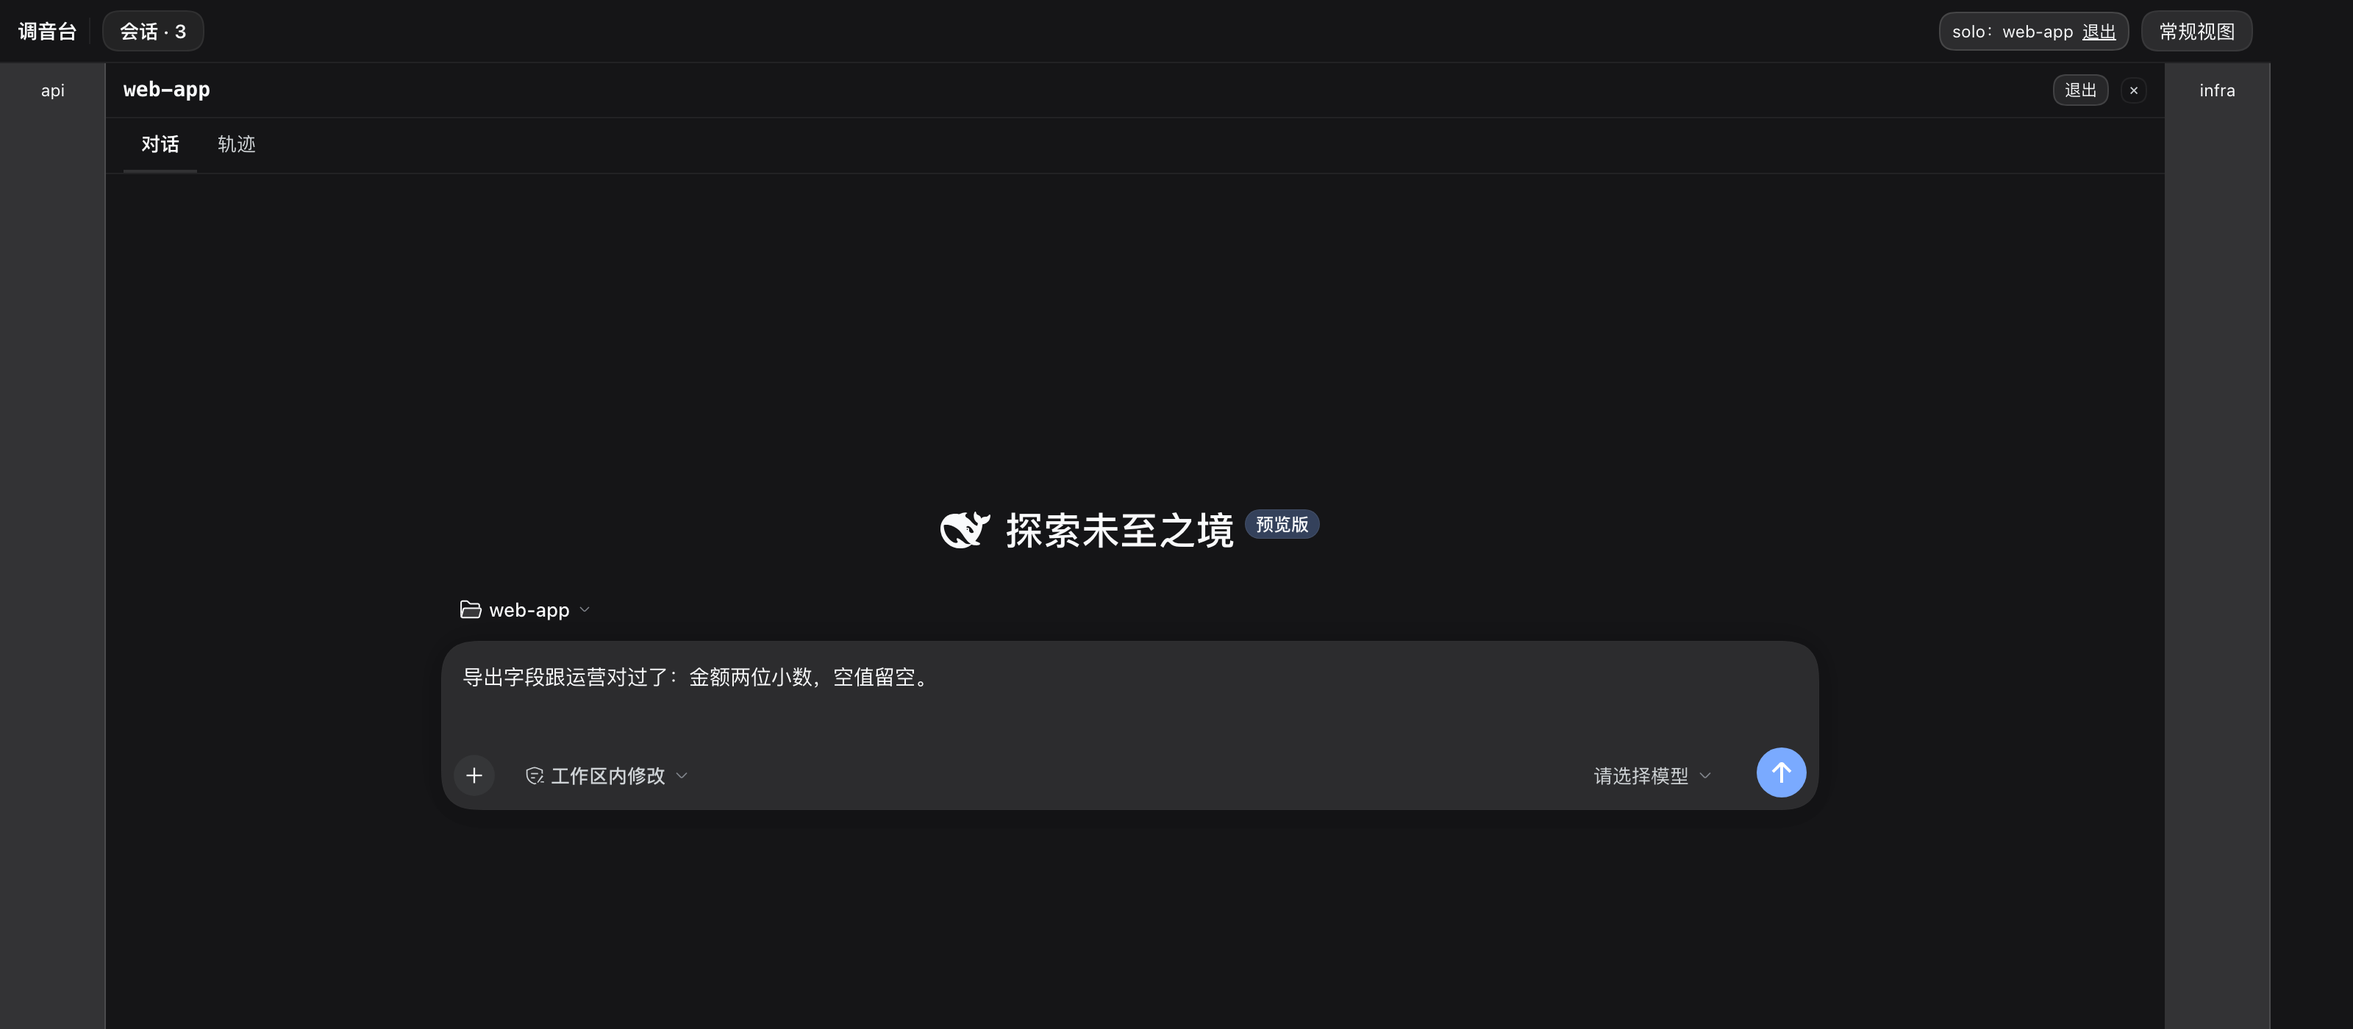
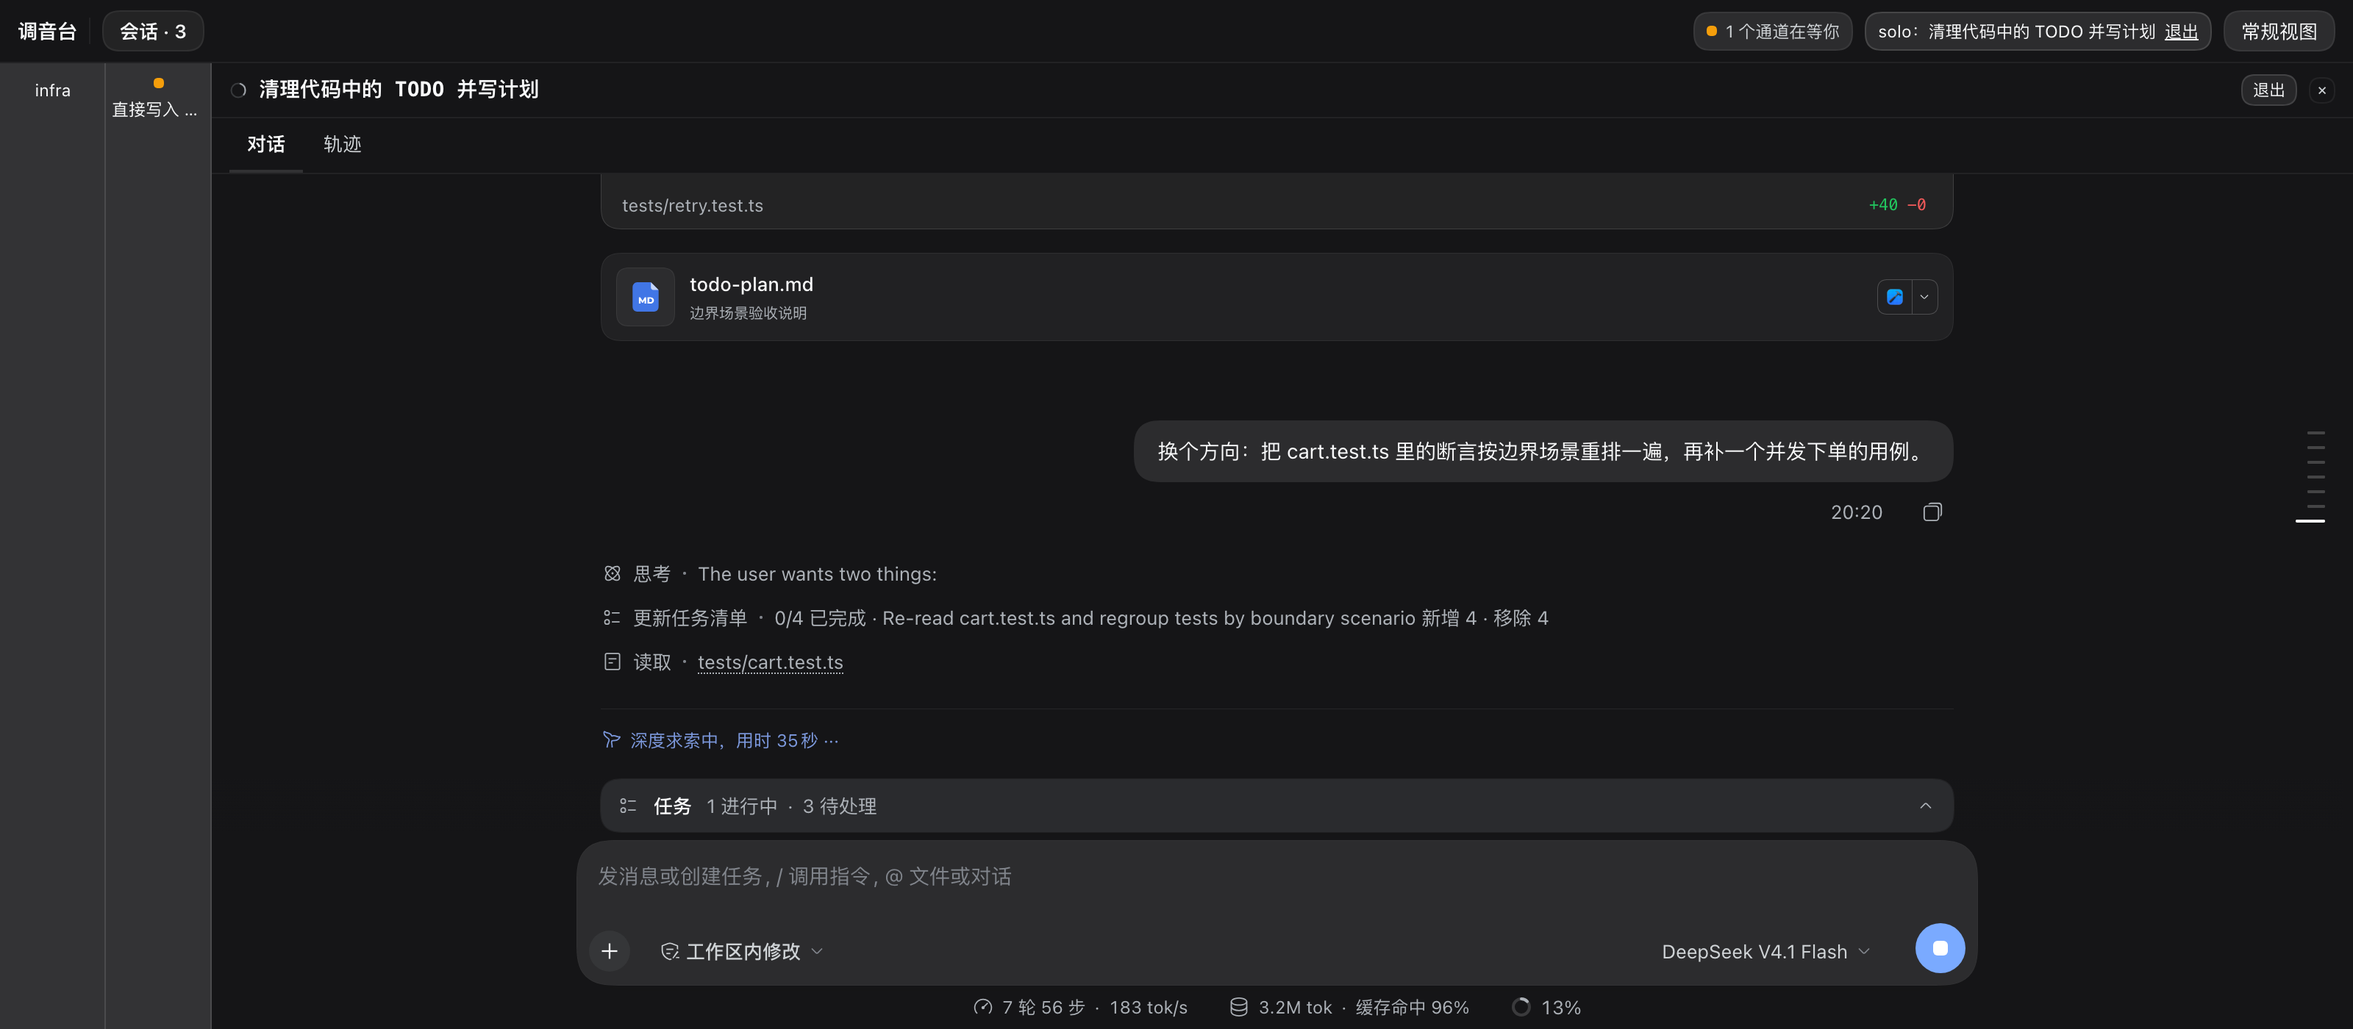
docs(readme): 主图换成「空 / 执行中 / 等待审批」三态同框（真实模型回合）
用户反馈上一版三栏全是空对话、视觉冲击力不够。本版在沙箱里跑**真实模型回合**
（沙箱 HOME 只多带一份 `~/.dsh/.credentials.yaml` 就有了登录态，DeepSeek V4.1 Flash），
再用 CDP 截取同一屏里的三种状态：

- `mixer.png`：① `infra` 空对话（composer 里有未发送草稿）② 等待审批 —— 真实
  `[data-approval-key]` 卡（尝试把清单写到工作区外 `/srv/demo-artifacts/manifest.csv`，
  被 `workspace-write` 拒绝后提权，`拒绝` / `允许一次` 都在图上）③ 执行中 ——
  `已编辑 N 个文件` 改动卡 + `todo-plan.md` 产物卡 + `深度求索中` + 头部转圈；
  顶栏 `1 个通道在等你` 同步亮起。
- `mixer-solo.png`：宽格是**正在跑**的回合（新需求 + 更新任务清单 + `深度求索中，用时 35 秒`
  + `任务 1 进行中`），两条 64px 窄条里一个是空、一个带琥珀等待点，顶栏同时挂等待汇总与 solo chip。
- `waiting.png`：改为从新主图第 2 格 **1:1 裁出**的审批卡近景（旧版是低分辨率截图放大，弃用）。
- `README.md`：主图下补一句「三种状态并存」，主图 alt 同步；引用路径不变。
- `PROVENANCE.md`：补齐登录态来源、三个真实 prompt 原文、审批触发链路、裁切参数与
  本轮踩的坑（Emulation 覆盖跟 CDP 会话走、嵌套 sandbox-exec 不可用、/tmp→/private/tmp realpath）。

隐私：凭据只复制进 `/tmp` 一次性沙箱（不打印、不入库、用完连沙箱一起删）；演示工作区与会话
全部虚构；左侧栏整条裁掉；DOM 全文审计禁词 0 命中、无 `/Users/...`、无账号名。

判据：`npm run check` = 96/96 用例 + 冷启动 `PASS`。

diff --git a/docs/assets/PROVENANCE.md b/docs/assets/PROVENANCE.md
@@ -1,7 +1,8 @@
 # 截图出处（`docs/assets/*.png`）
 
-这两张图不是设计稿、不是手工 HTML，也不是原型分支的产物：它们是在**真实 DSH 宿主**（`dsh web`）上、
-用**无头 Chrome + CDP** 驱动本仓库根包的插件截下来的。下面记录能让人重跑一遍的全部事实。
+这两张图不是设计稿、不是手工 HTML，也不是原型分支的产物：它们是在**真实 DSH 宿主**（`dsh web`）里、
+用**无头 Chrome + CDP** 驱动本仓库根包的插件截下来的，而且图里的对话是**真实模型回合**跑出来的
+（不是占位文本）。下面记录能让人重跑一遍的全部事实。
 
 ## 宿主与插件版本
 
@@ -15,82 +16,116 @@
 | 启动命令 | `DSH_HOME=<沙箱> node --import tsx/esm apps/cli/src/bin.ts web --no-open --port 4599` |
 | 浏览器 | Google Chrome 155.0.8059.85，`--headless=new` |
 | 主题 | 暗色（`Emulation.setEmulatedMedia` 的 `prefers-color-scheme: dark`） |
+| 模型 | `DeepSeek V4.1 Flash`（profile 的 `agent-default-model` 那条 patch；回合真的发出去了） |
+
+## 沙箱怎么拿到登录态
+
+- 沙箱 `DSH_HOME` 从 `~/.dsh` **只**复制两样：`profiles`（纯配置）与 `.credentials.yaml`（登录凭据）。
+- 凭据文件只落在 `/tmp` 的一次性沙箱里：**没有**被读取打印、**没有**进入仓库、也没写成任何文件；
+  整个沙箱在收尾时删除。宿主的 `~/.dsh` 本体、3080 上正在用的 GUI、live token 全程没碰。
+- 有了它，沙箱宿主是登录态：`/mixer` 命令、通道、composer 都正常，模型回合也能真的跑，
+  首屏不再要求登录（图里也没有任何登录弹窗）。
 
 ## 窗口与像素
 
 | 项 | 值 |
 | --- | --- |
-| 视口（Emulation 覆盖） | **1656 × 900** CSS px |
+| 视口（`Emulation.setDeviceMetricsOverride`） | **1656 × 700** CSS px |
 | `deviceScaleFactor` | **2** |
 | 左侧栏 | 调音台会自动把它折成 56px 轨道（spec §7.1），**截图时整条裁掉**（`clip.x = 56`） |
 | 出图裁剪区 | `x=56, y=0, width=1600, height=700`（CSS） |
 | 两张 PNG 的像素尺寸 | **3200 × 1400**（= 1600×700 CSS × DPR 2） |
-| 文件体积 | `mixer.png` ≈ 163 KB、`mixer-solo.png` ≈ 93 KB（均远小于 800 KB） |
+| 文件体积 | `mixer.png` ≈ 418 KB（428,411 B）、`mixer-solo.png` ≈ 208 KB（213,360 B）（均小于 800 KB） |
+
+> 视口高度选 700 而不是更高的窗口，是因为**审批卡很高**（约 260px）：在 900 高的窗口里它会顶到
+> 可视区之外，700 高时刚好整张卡（含 `拒绝` / `允许一次`）都落在画面里。
 
 ## 每张图里是什么
 
-### `mixer.png` —— README 主图
+### `mixer.png` —— README 主图（空 / 在跑 / 在等你，三格同框）
 
-调音台视图叠在真实宿主上，**3 个通道并排**（每格 511 CSS px）：
+从左到右三个通道，三格状态各不相同，一眼可辨：
 
-- 顶栏完整保留：`调音台` 标签 │ `会话 · 3` chip │ 右侧 `常规视图`；
-- 每格头部：会话标题（`api` / `web-app` / `infra`）、`solo` 按钮、`×`（移出），下面是 `对话` / `轨迹` 视图标签；
-- 每格各自一份宿主官方 composer（空会话的 hero 态），**输入框里各有一段不同的草稿**：
-  - `回调签名比较改成常量时间，再补一条重复通知的用例。`
-  - `导出字段跟运营对过了：金额两位小数，空值留空。`
-  - `镜像层顺序调一下，依赖安装放到源码复制之前。`
-- 最右那格是当前焦点所在（输入卡片带宿主自己的 2px 焦点描边，spec §5.3）；
-- 通道之间是 5px 抓取带 + 1px 分界线。
+1. **`infra`：空对话**（hero + 输入框）。composer 里有一段未发送的草稿：
+   `镜像层顺序调一下，依赖安装放到源码复制之前。` —— 这一格是「真实会话」的锚点。
+2. **`直接写入 manifest.csv 表头`：等待审批**（`data-mixer-state="waiting"`，头部左侧 2px 琥珀竖条）。
+   对话里有模型的思考与一次被沙箱拒绝的写入，下面就是真实的 `[data-approval-key]` 卡片：
+   `等待审批` + 越界理由（把清单写到工作区外的 `/srv/demo-artifacts/manifest.csv`）+ `拒绝` / `允许一次`。
+3. **`清理代码中的 TODO 并写计划`：进行中**（头部转圈，`data-mixer-state="running"`）。
+   有真实对话记录、`已编辑 N 个文件` 的改动卡（`+89 -0` / `+130 -0` …）、`todo-plan.md` 产物卡、
+   时间轴上的 `思考` / `读取` / `编辑` 步骤，以及 `深度求索中，用时 … ` 的实时状态行。
 
-### `mixer-solo.png` —— solo 态
+顶栏完整保留：`调音台` │ `会话 · 3` │ **`1 个通道在等你`** │ `常规视图`。
 
-同一屏，点了 `web-app` 这格的 `solo` 之后：
+### `mixer-solo.png` —— solo 态（宽格里是活的回合）
 
-- 被 solo 的通道占满剩余宽度，头部变成 `web-app` + `退出`（+ `×`）；
-- 其余两个通道压成 **64px 窄条**（`api` / `infra`）：凹陷表面 + 右缘 1px 分界线 + 主色标题；
-- 顶栏多出 `solo：web-app 退出` chip；
-- `web-app` 那格的草稿仍是 `导出字段跟运营对过了：金额两位小数，空值留空。`，`会话 · 3` 计数不变
-  —— solo 只是视图状态，通道照旧在（spec §5.7）。
+对第 3 格点 `solo` 之后：
+
+- 被 solo 的通道占满剩余宽度，头部变成 `清理代码中的 TODO 并写计划` + `退出`（+ `×`）：
+  里面正是它**正在跑**的回合 —— 刚发出的中文需求、`更新任务清单`、`读取 tests/cart.test.ts`、
+  `深度求索中，用时 35 秒`、`任务 1 进行中 · 3 待处理`；
+- 其余两个通道压成 **64px 窄条**：`infra`（空）与 `直接写入…`（那条**正在等你**的通道，
+  窄条顶部有琥珀状态点）—— 这就是「solo 只是视觉聚焦，其余通道照常亮灯」（spec §5.7）；
+- 顶栏同时挂着 `1 个通道在等你` 与 `solo：… 退出` 两个 chip。
+
+### `waiting.png` —— 等待审批卡的近景（从 `mixer.png` 第 2 格裁出）
+
+同一张主图的裁切，不引入任何新内容：只取那一格的 `[data-approval-key]` 卡片（`等待审批` +
+越界理由 + `拒绝` / `允许一次`）。裁切范围 = `mixer.png`（3200×1400）的
+`x=1126, y=878, w=944, h=524`，原生 1:1 像素、**没有放大**（`sips` 直接裁）。
 
 ## 演示数据：全部虚构
 
 **所有工作区与会话均为 `/tmp` 下虚构演示数据，无真实用户内容。**
 
-- 沙箱 `DSH_HOME` 只从 `~/.dsh` 复制的 `profiles`（纯配置），**没有**复制
-  `sessions` / `storages` / `logs` / `attachments` / 凭据，因此宿主从一个空库起步；
 - 虚构工作区：`/private/tmp/mixer-demo/{web-app,api,infra}`（macOS 下 `/tmp` 的真身是 `/private/tmp`），
-  里面只有两三个随手写的示例文件；
-- 虚构会话：3 个空会话，标题就取工作区名（`api` / `web-app` / `infra`）；
-- 输入框草稿是自拟的中文业务文案（见上）；
+  里面只有几个随手写的示例文件（`src/cart.ts` / `src/checkout.ts` / `tests/cart.test.ts` …）与 TODO 注释；
+- 会话：三个空会话，标题由**真实回合**自动命名（`清理代码中的 TODO 并写计划` /
+  `直接写入 manifest.csv 表头` / 工作区名 `infra`）；
+- 草稿与 prompt 都是自拟中文业务文案，见下节原文；
 - 截图里**不出现**任何真实工作区名（`d` / `code` / `tcel-main-project` / `fs-sub-flow` / `temp` /
   `turbo-json-viewer` / `learn-personal-agent` / `fs-new-booking` / `wx-claw-bot` / `video` /
   `deepseek-harness` / `mvp-hotel` / `code-bot` / `user` / `fs-main-flow` 等），**不出现** `/Users/...` 路径，
-  也不出现登录弹窗或左侧栏。
+  也不出现登录弹窗或左侧栏。工具行里出现的路径只有演示树本身（`/private/tmp/mixer-demo/...`）
+  与虚构的发布目录（`/srv/demo-artifacts/...`）。
+
+## 真实回合是怎么造出来的
+
+三个通道的输入（原文）：
+
+- **进行中那格**（`web-app` 工作区）：
+  `把 src 和 tests 下的每个文件从头到尾读一遍，列出里面的 TODO，然后逐个改掉：每处理完一个文件再读下一个，最后写一份 docs/todo-plan.md 记录你改了哪些地方、为什么。`
+  之后又追加过几轮（补测试、补 JSDoc、重排断言），截图抓的是其中一轮还在跑的时刻。
+- **等待审批那格**（`api` 工作区）：
+  `直接用写文件的工具把表头写成一行 name,size 保存到 /srv/demo-artifacts/manifest.csv（发布目录在工作区外），不要先运行任何命令。`
+  → 写文件被 `workspace-write` 策略拒绝 → 宿主弹提权请求 → 那张 `[data-approval-key]` 卡。
+  截图时**故意不点** `允许一次`，所以越界写入从未发生，工作区外没有任何文件被创建。
+- **空对话那格**（`infra` 工作区）：只打草稿，不发送。
+
+⚠ 一处诚实说明：这台机器的宿主跑在本 agent 自己的文件沙箱里，**嵌套的 `sandbox-exec` 起不来**，
+所以 `bash` 工具在这个沙箱宿主里报 `sandbox mode "workspace-write" is requested but no sandbox backend
+is usable on this host`，并因此提权。为了不让画面变成"每个 bash 调用都在要权限"，进行中那格第一张
+审批卡是在 CDP 里点了 `拒绝` 后让它改用文件读写工具继续跑的 —— 图里那条灰色 `Error: [sandbox: …]`
+就是这件事的痕迹。审批卡本身（第 2 格）仍然是真实触发的，理由也来自模型自己写的那段话。
 
 ## 复现步骤（要点）
 
-1. **沙箱 HOME**（只带配置）：
+1. **沙箱 HOME**（配置 + 凭据，仅此两样）：
 
    ```bash
    export SH=/tmp/dsh-mixer-shot-home
    rm -rf "$SH" && mkdir -p "$SH"
    cp -R ~/.dsh/profiles "$SH/profiles"
-   # profile 里只留 base + web-app + dsh-mixer；dsh-mixer 指向工作区（绝对软链）
+   cp ~/.dsh/.credentials.yaml "$SH/.credentials.yaml" && chmod 600 "$SH/.credentials.yaml"
    ln -sfn /Users/user/Documents/code/d/dsh-mixer "$SH/profiles/web/node_modules/dsh-mixer"
    ```
 
-   顺手把这台机器上无关的 bundle（`better-miniprogram-sim`、agent-team profile）从
-   `profiles/web/package.json` 的 `dependencies` / `dsh.profile.bundles` 里去掉，冷启动更快也更干净。
+   profile 里只留 `@deepseek-ai/dsh-base` + `@deepseek-ai/dsh-web-app` + `dsh-mixer`；
+   `cordis.patch.yml` 的 `workspaceRoot` 改成 `/tmp/mixer-demo`。
 
-2. **虚构工作区 + 把沙箱的 `cordis.patch.yml` 的 `workspaceRoot` 改到 `/tmp/mixer-demo`**。
+2. **虚构工作区**：`/tmp/mixer-demo/{web-app,api,infra}`，塞几个带 `TODO` 注释的小文件。
 
-3. **起 server**（后台）：
-
-   ```bash
-   cd /Users/user/Documents/code/deepseek-harness
-   DSH_HOME=$SH node --import tsx/esm apps/cli/src/bin.ts web --no-open --port 4599
-   # 从 stdout 取 `?token=…`
-   ```
+3. **起 server**：见上表；token 从 stdout 取。
 
 4. **无头 Chrome**：
 
@@ -101,28 +136,26 @@
      --window-size=1600,1000 --force-device-scale-factor=2 --hide-scrollbars about:blank
    ```
 
-   （`--window-size` 只是初始值，headless 会再扣掉一层浏览器高度；出图用的 1656 × 900 由下一步的
-   `Emulation.setDeviceMetricsOverride` 精确指定，实测 `innerWidth/innerHeight` 与之一致。）
-
-5. **CDP 驱动**（Node 24 原生 `WebSocket`，零依赖；`/json/list` 取 `webSocketDebuggerUrl`）：
+5. **CDP 驱动**（Node 24 原生 `WebSocket`，零依赖）：
 
    ```js
    await send('Emulation.setEmulatedMedia', { features: [{ name: 'prefers-color-scheme', value: 'dark' }] })
-   await send('Emulation.setDeviceMetricsOverride', { width: 1656, height: 900, deviceScaleFactor: 2, mobile: false })
+   await send('Emulation.setDeviceMetricsOverride', { width: 1656, height: 700, deviceScaleFactor: 2, mobile: false })
    await send('Page.navigate', { url: `http://127.0.0.1:4599/?token=${token}` })
-   // 轮询 Runtime.evaluate 等 document.readyState / 插件 UI 出现，不要固定 sleep
+   // 轮询 Runtime.evaluate，等插件 UI / 各格状态，而不是固定 sleep
    ```
 
-   进调音台、造通道、打草稿、截图**全部走 CDP**：
-   - 进调音台：composer 里 `Input.insertText` 打 `/mixer` → 点命令菜单里的 `调音台视图`（等价于会话头的 `调音台` 按钮）；
-   - 加通道：点 `[data-mixer-sessions]` 打开 `会话` 浮层 → 把指针移到某工作区行（`data-mixer-workspace`）让
+   - 进调音台：composer 里 `Input.insertText` 打 `/mixer` → 点命令菜单里的 `调音台视图`；
+   - 加通道：`[data-mixer-sessions]` 开 `会话` 浮层 → 指针移到工作区行（`data-mixer-workspace`）让
      `＋会话`（`data-mixer-new="<workspaceId>"`）浮现 → 点它（新通道落在第 0 位）；
-   - 打草稿：点该格 `[data-composer-card]`，`Input.insertText` 输入文本（占位符不算内容，必须真的输入）；
-   - solo：点该格 `[data-mixer-solo]`（solo 后变 `退出`），或顶栏 `[data-mixer-solo-exit]` 退出；
-   - 截图：`Page.captureScreenshot({ format: 'png', clip: { x: 56, y: 0, width: 1600, height: 700 } })`
-     —— `x = 56` 就是裁掉折叠后的侧栏轨道。
+   - 发 prompt：点 `[data-composer-card]` → `Input.insertText` → 点 `[aria-label="发送消息"]`；
+   - 轮询状态：`[data-mixer-pane][data-mixer-state]`（`idle` / `running` / `waiting`）+
+     `[data-approval-key]` 是否出现；
+   - solo：点该格 `[data-mixer-solo]`（solo 后变 `退出`），顶栏 `[data-mixer-solo-exit]` 退出；
+   - 截图：`Page.captureScreenshot({ format: 'png', clip: { x: 56, y: 0, width: 1600, height: 700, scale: 1 } })`。
 
-6. **清理**：关 Chrome、停 server，删 `/tmp/chrome-mixer-shot`、`/tmp/dsh-mixer-shot-home`、`/tmp/mixer-demo`。
+6. **收尾**：关 Chrome、停 server，删 `/tmp/chrome-mixer-shot`、`/tmp/dsh-mixer-shot-home`（含凭据副本）、
+   `/tmp/mixer-demo`。
 
 ## 这一轮踩到的坑（下次直接绕开）
 
@@ -131,9 +164,11 @@
   '/private/tmp/…'`），表现是"会话建了但列表里没有"。
 - **Chrome 在 DSH 自己的文件沙箱里起不来**：报 `sandbox initialization failed: Operation not permitted`，
   必须加 `--no-sandbox`（再顺手关掉 crashpad，否则日志被崩溃上报刷屏）。
-- **`--dump-dom` / `--screenshot` 对活页面会挂住**（websocket 长连接 + virtual time 不触发），只能用
-  CDP 轮询 `Runtime.evaluate`。
-- **`--dump-dom` 那份页面没有 token**：URL 里不带 `?token=` 时 RPC 不通，界面会停在"工作区空空如也"的样子。
-- **未登录弹窗**：沙箱宿主是未登录态，首屏可能盖一层"登录 / 添加 API Key"弹窗，用 aria-label 为 `关闭`
-  的按钮关掉即可（**不要**去登录，也**不要**用任何真实凭据）。会话创建、草稿都是本地能力，不需要登录。
+- **`--dump-dom` / `--screenshot` 对活页面会挂住**（websocket 长连接 + virtual time 不触发），只能 CDP 轮询。
+- **`Emulation.*` 覆盖是跟着 CDP 会话走的**：每个新 WebSocket（即每个新的 node 脚本）都要**重新**
+  `setDeviceMetricsOverride`，否则视口回到窗口默认值 —— 这一轮因此先把审批卡截到了画面外，
+  白跑了一次截图。
+- **`--dump-dom` 那份页面没有 token**：URL 里不带 `?token=` 时 RPC 不通，界面停在"没有会话"。
+- **未登录弹窗**：凭据没带进来时首屏会盖一层"登录 / 添加 API Key"；带进来就消失，别去真的登录。
 - **暗色主题**只能靠 `Emulation.setEmulatedMedia` 给，headless 默认是浅色。
+- **bash 工具在嵌套沙箱里不可用**（见上文），所以演示回合只依赖文件读写工具。

diff --git a/README.md b/README.md
@@ -10,7 +10,9 @@
   </p>
 </div>
 
-![调音台视图：几个会话并排，每格有自己的对话记录与输入框](docs/assets/mixer.png)
+![调音台视图：三格并排 —— 空对话 / 等待审批 / 正在执行](docs/assets/mixer.png)
+
+> 同一屏里三种状态并存：一个是空对话，一个是正在跑（转圈 + 工具调用），一个卡在**等待审批**（审批卡就在那一格里，顶栏同步计数）。
 
 > 截图由真实 DSH 宿主驱动，工作区与会话均为虚构演示数据。
 
